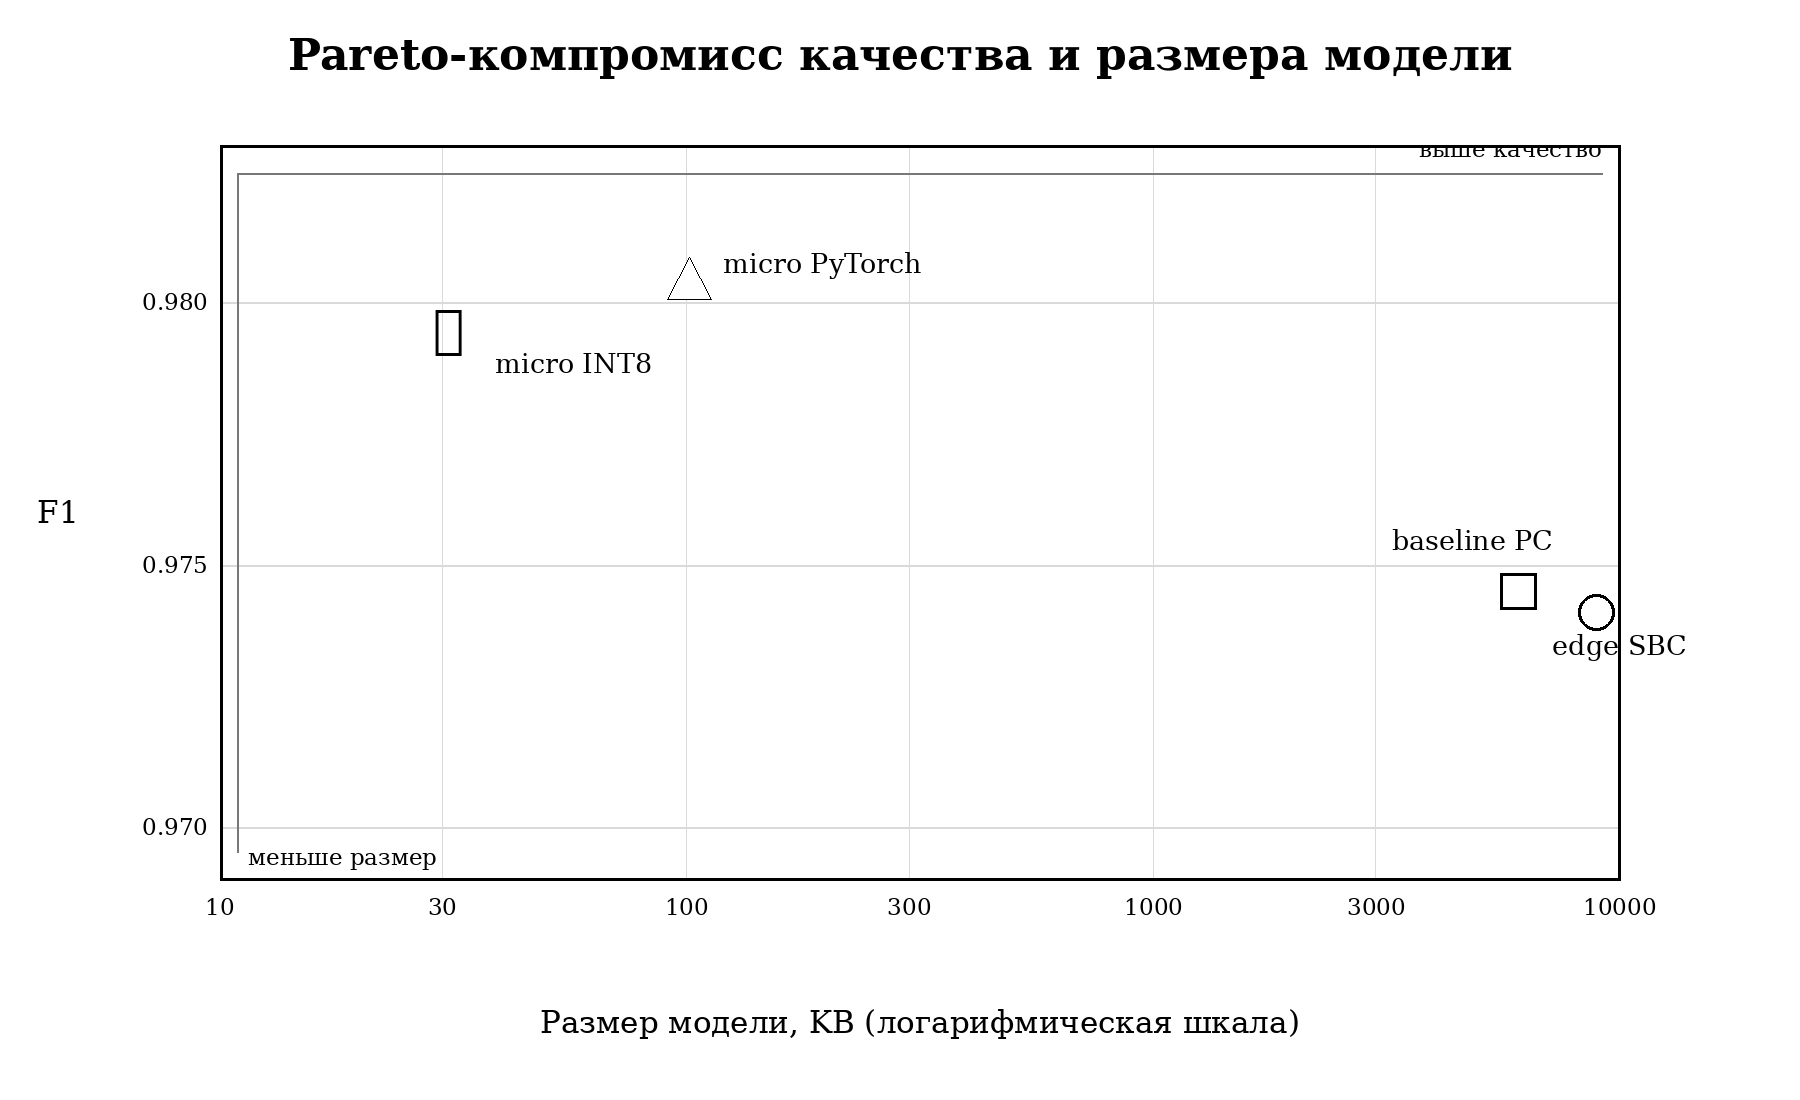
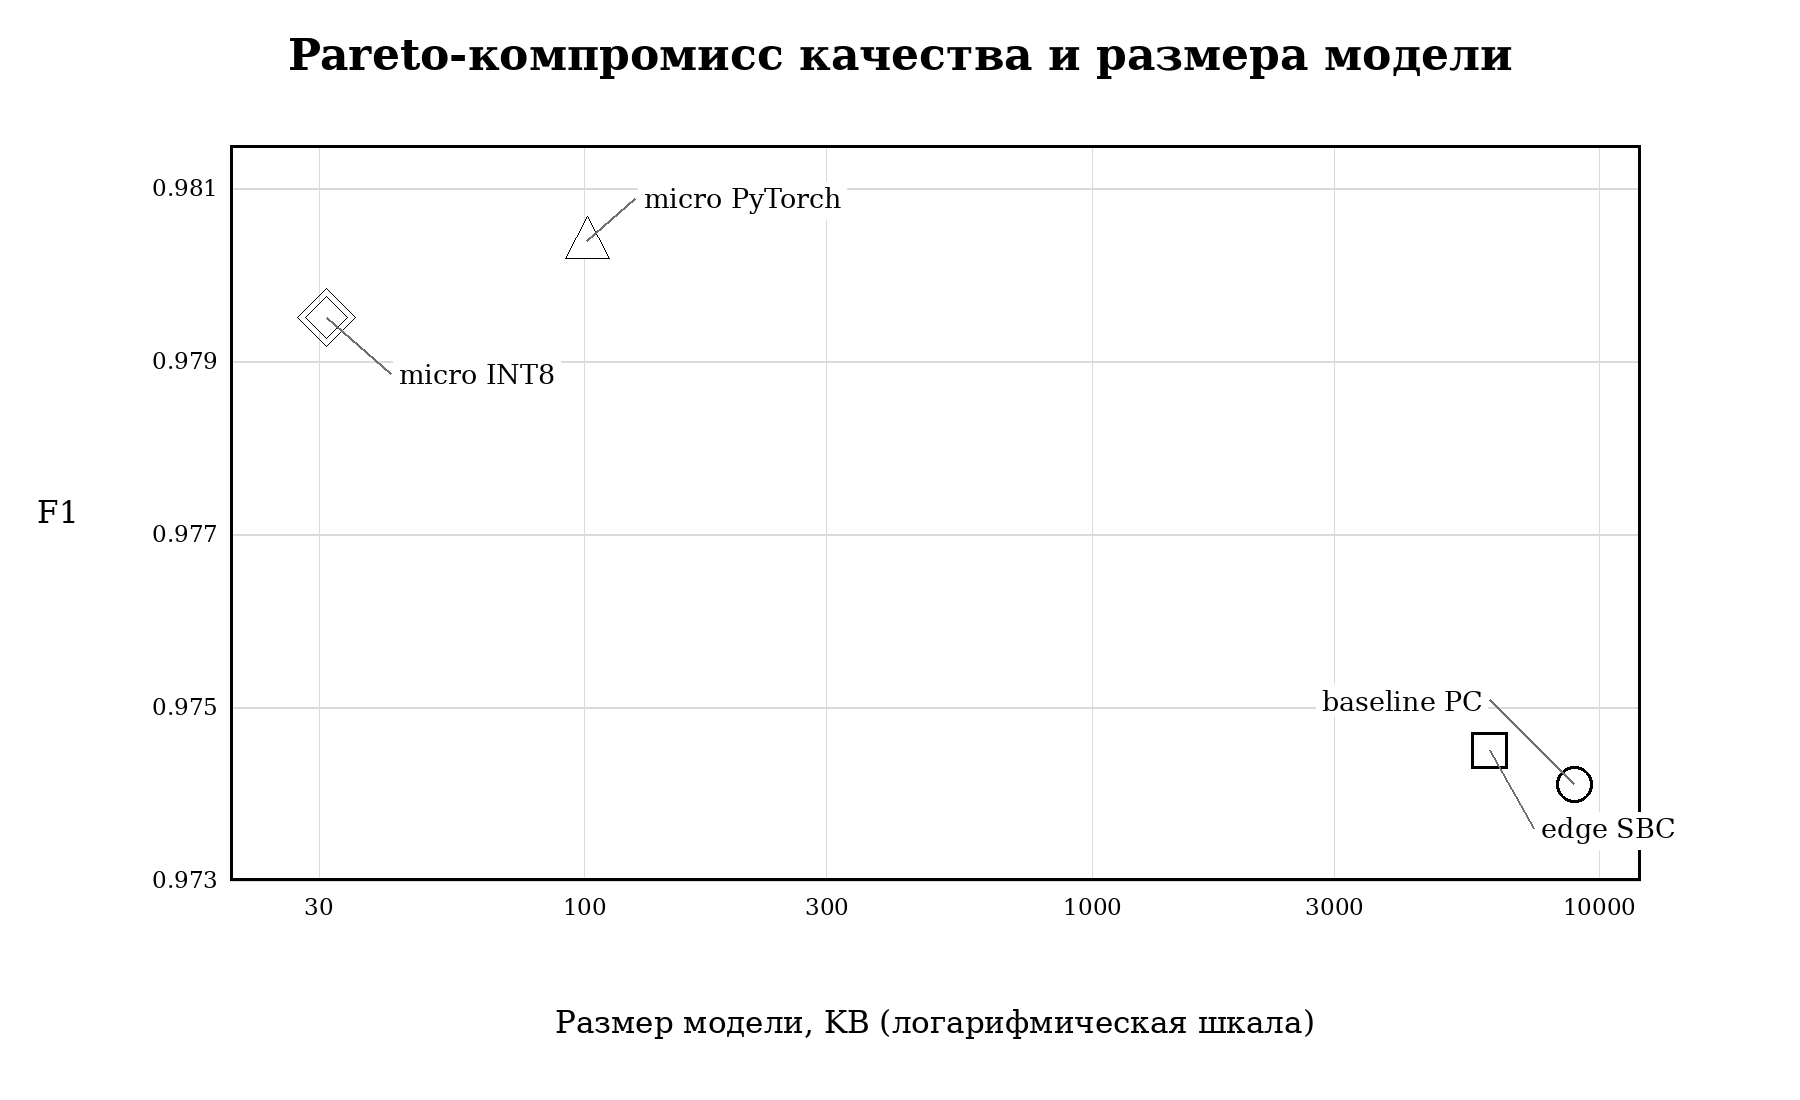
Refine Pareto figure layout

diff --git a/reports/final_nir/generate_clean_figures.py b/reports/final_nir/generate_clean_figures.py
@@ -113,36 +113,52 @@ def size() -> None:
 
 def pareto() -> None:
     im, d = base("Pareto-компромисс качества и размера модели")
-    x0, y0, x1, y1 = 220, 145, W - 180, H - 220
-    ymin, ymax = 0.969, 0.983
+    x0, y0, x1, y1 = 230, 145, W - 160, H - 220
+    xmin_log, xmax_log = math.log10(20), math.log10(12000)
+    ymin, ymax = 0.973, 0.9815
+    def px(kb: float) -> float:
+        return x0 + (math.log10(kb) - xmin_log) / (xmax_log - xmin_log) * (x1 - x0)
+
+    def py(f1: float) -> float:
+        return y1 - (f1 - ymin) / (ymax - ymin) * (y1 - y0)
+
     for tick in [10, 30, 100, 300, 1000, 3000, 10000]:
-        x = x0 + (math.log10(tick) - 1) / 3 * (x1 - x0)
+        if tick < 20:
+            continue
+        x = px(tick)
         d.line((x, y0, x, y1), fill=GRID, width=1)
         d.text((x, y1 + 18), str(tick), font=SMALL, fill=BLACK, anchor="mt")
-    for tick in [0.970, 0.975, 0.980]:
-        y = y1 - (tick - ymin) / (ymax - ymin) * (y1 - y0)
+    for tick in [0.973, 0.975, 0.977, 0.979, 0.981]:
+        y = py(tick)
         d.line((x0, y, x1, y), fill=GRID, width=2)
         d.text((x0 - 12, y), f"{tick:.3f}", font=SMALL, fill=BLACK, anchor="rm")
     d.rectangle((x0, y0, x1, y1), outline=BLACK, width=3)
-    offsets = [(-44, -72), (34, 54), (34, -18), (46, 34)]
+    label_pos = {
+        "baseline PC": (-92, -84, "rm"),
+        "edge SBC": (52, 78, "lm"),
+        "micro PyTorch": (56, -42, "lm"),
+        "micro INT8": (72, 56, "lm"),
+    }
     for i, (name, _, f1, _, kb, _) in enumerate(MODELS):
-        x = x0 + (math.log10(kb) - 1) / 3 * (x1 - x0)
-        y = y1 - (f1 - ymin) / (ymax - ymin) * (y1 - y0)
+        x = px(kb)
+        y = py(f1)
         if name == "micro INT8":
-            d.text((x, y), "★", font=ImageFont.truetype(BOLD, 52), fill=BLACK, anchor="mm")
+            r = 21
+            d.polygon([(x, y - r), (x + r, y), (x, y + r), (x - r, y)], fill=WHITE, outline=BLACK)
+            d.polygon([(x, y - r - 8), (x + r + 8, y), (x, y + r + 8), (x - r - 8, y)], outline=BLACK)
         elif name == "edge SBC":
             d.rectangle((x - 18, y - 18, x + 18, y + 18), fill=WHITE, outline=BLACK, width=3)
         elif name == "micro PyTorch":
             d.polygon([(x, y - 24), (x - 22, y + 18), (x + 22, y + 18)], fill=WHITE, outline=BLACK)
         else:
             d.ellipse((x - 18, y - 18, x + 18, y + 18), fill=WHITE, outline=BLACK, width=3)
-        ox, oy = offsets[i]
-        anchor = "rm" if ox < 0 else "lm"
-        d.text((x + ox, y + oy), name, font=LABEL, fill=BLACK, anchor=anchor)
-    d.line((x0 + 18, y0 + 28, x1 - 18, y0 + 28), fill=(120, 120, 120), width=2)
-    d.text((x1 - 18, y0 + 12), "выше качество", font=SMALL, fill=BLACK, anchor="rb")
-    d.line((x0 + 18, y1 - 28, x0 + 18, y0 + 28), fill=(120, 120, 120), width=2)
-    d.text((x0 + 28, y1 - 10), "меньше размер", font=SMALL, fill=BLACK, anchor="lb")
+        ox, oy, anchor = label_pos[name]
+        tx, ty = x + ox, y + oy
+        d.line((x, y, tx - 8 if anchor == "lm" else tx + 8, ty), fill=(110, 110, 110), width=2)
+        bbox = d.textbbox((tx, ty), name, font=LABEL, anchor=anchor)
+        pad = 5
+        d.rectangle((bbox[0] - pad, bbox[1] - pad, bbox[2] + pad, bbox[3] + pad), fill=WHITE)
+        d.text((tx, ty), name, font=LABEL, fill=BLACK, anchor=anchor)
     d.text(((x0 + x1) / 2, H - 78), "Размер модели, KB (логарифмическая шкала)", font=AXIS, fill=BLACK, anchor="mm")
     d.text((58, (y0 + y1) / 2), "F1", font=AXIS, fill=BLACK, anchor="mm")
     save(im, "pareto_f1_size_clean")